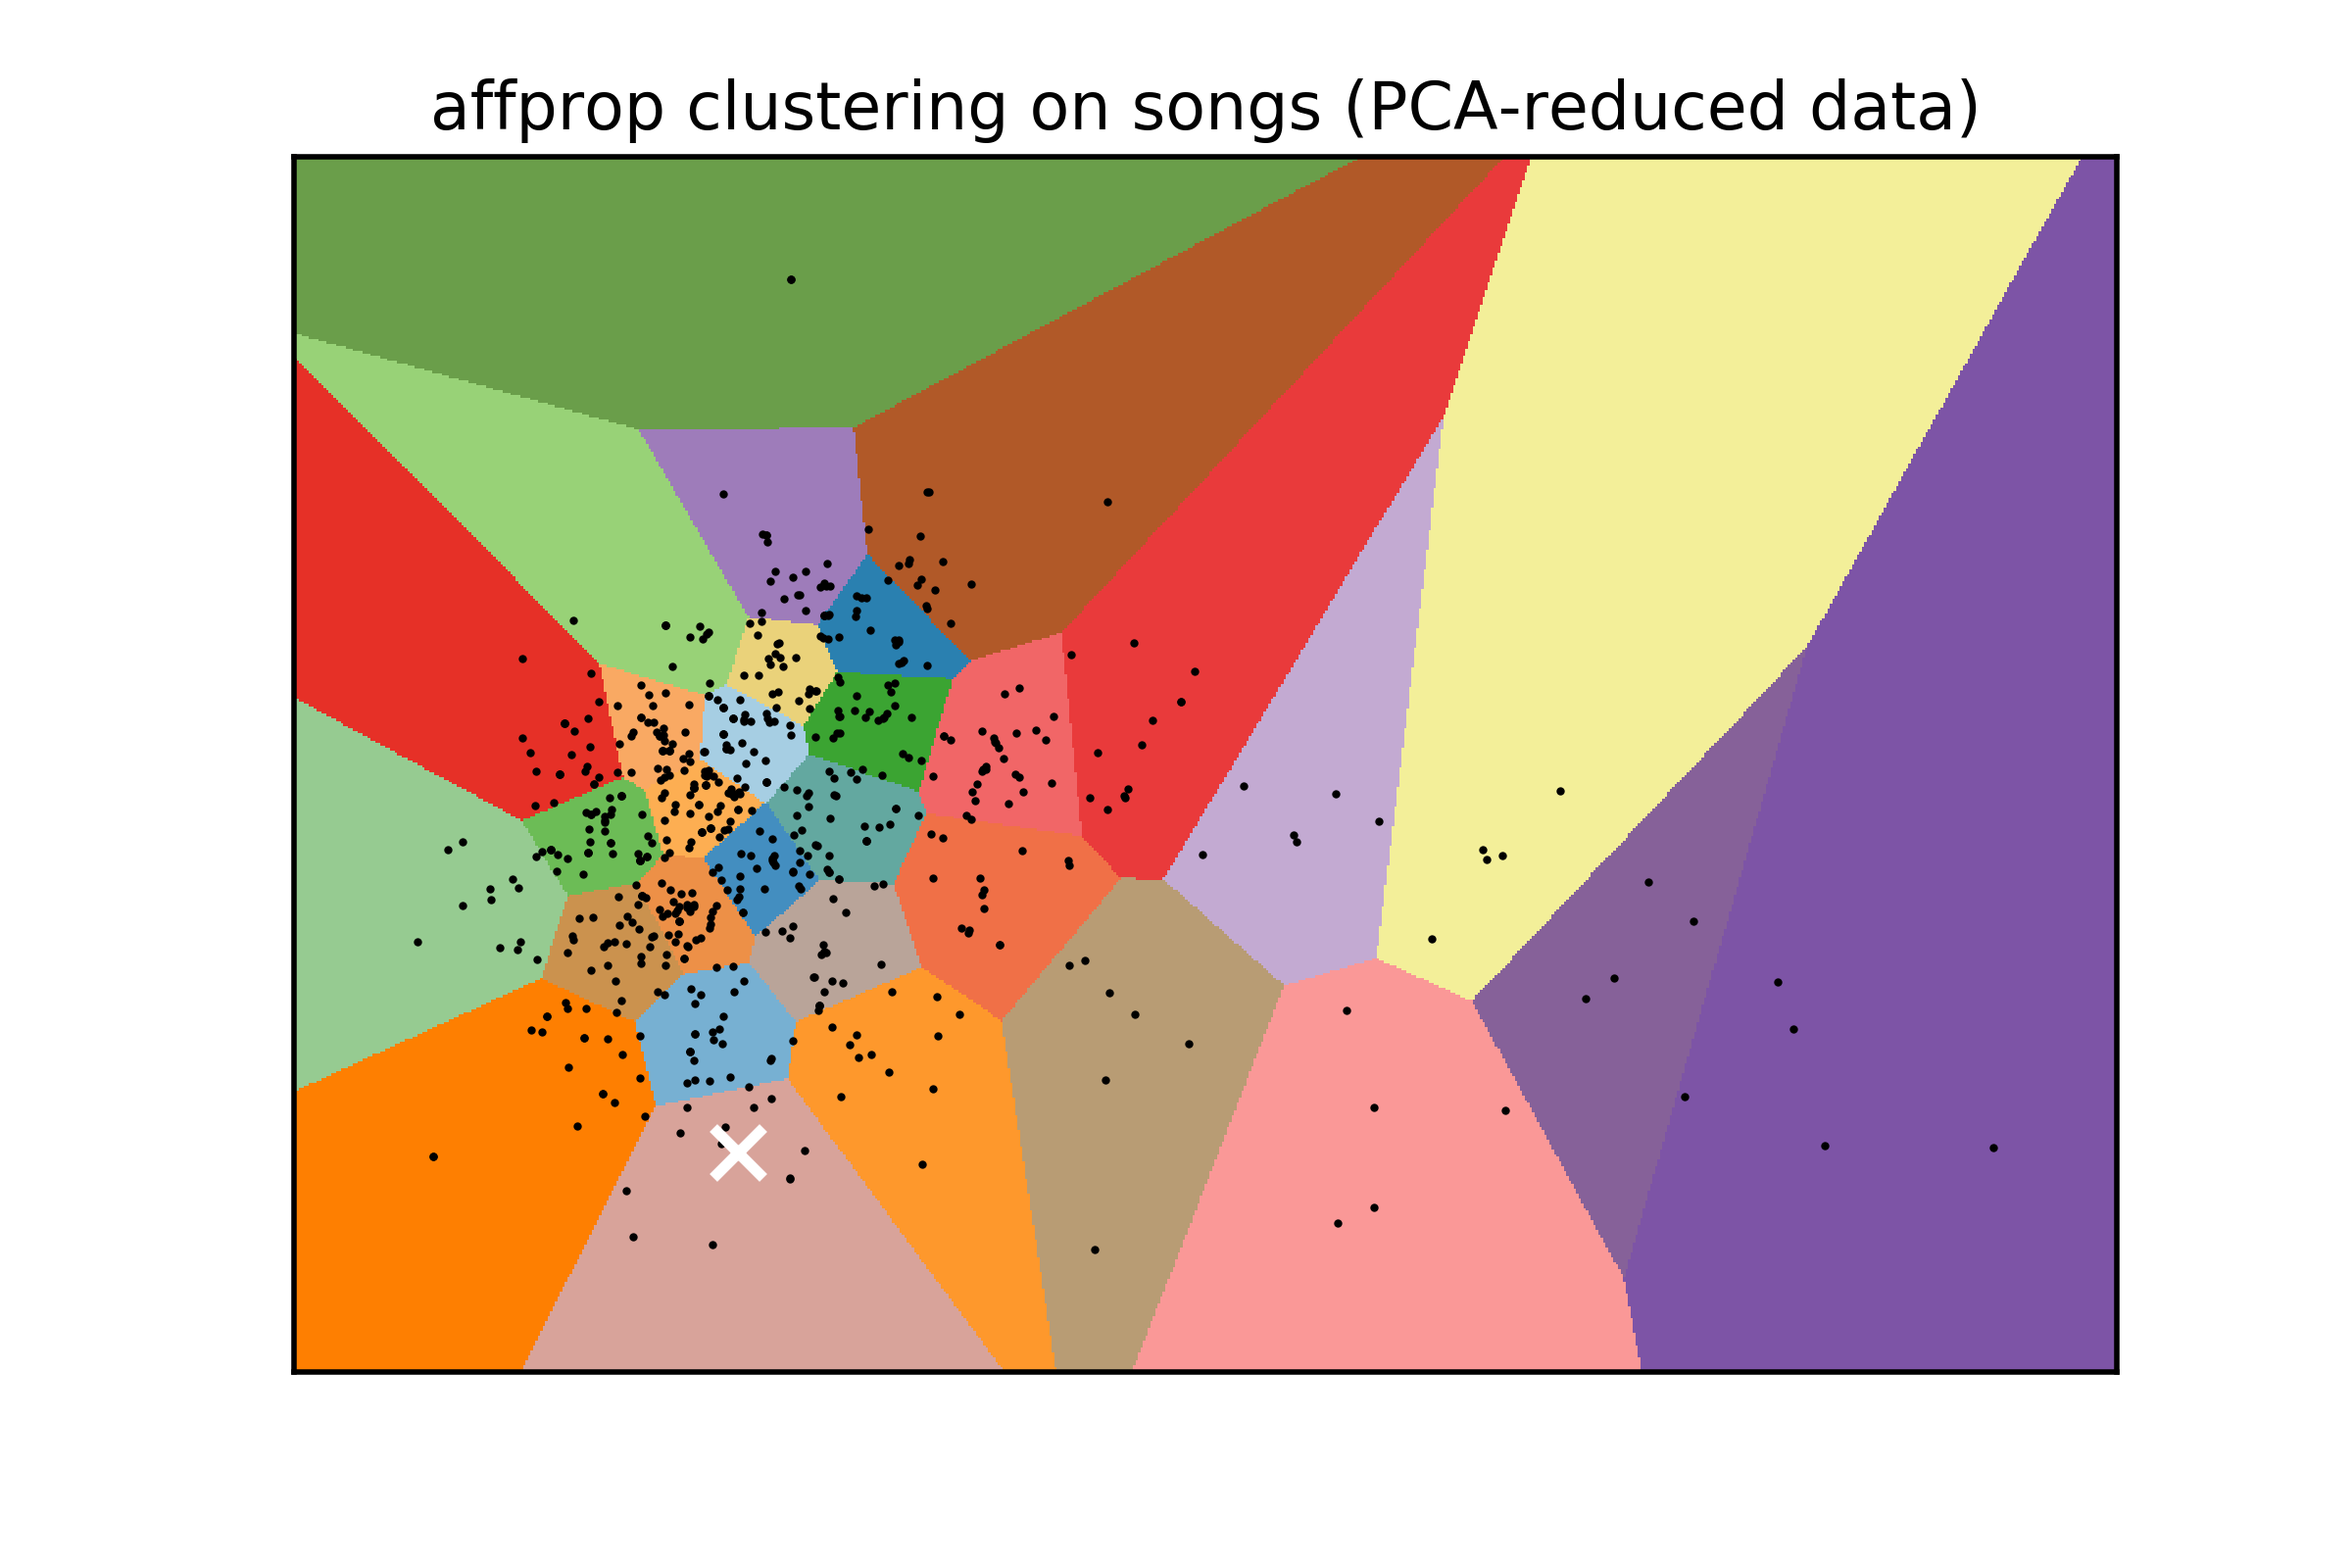
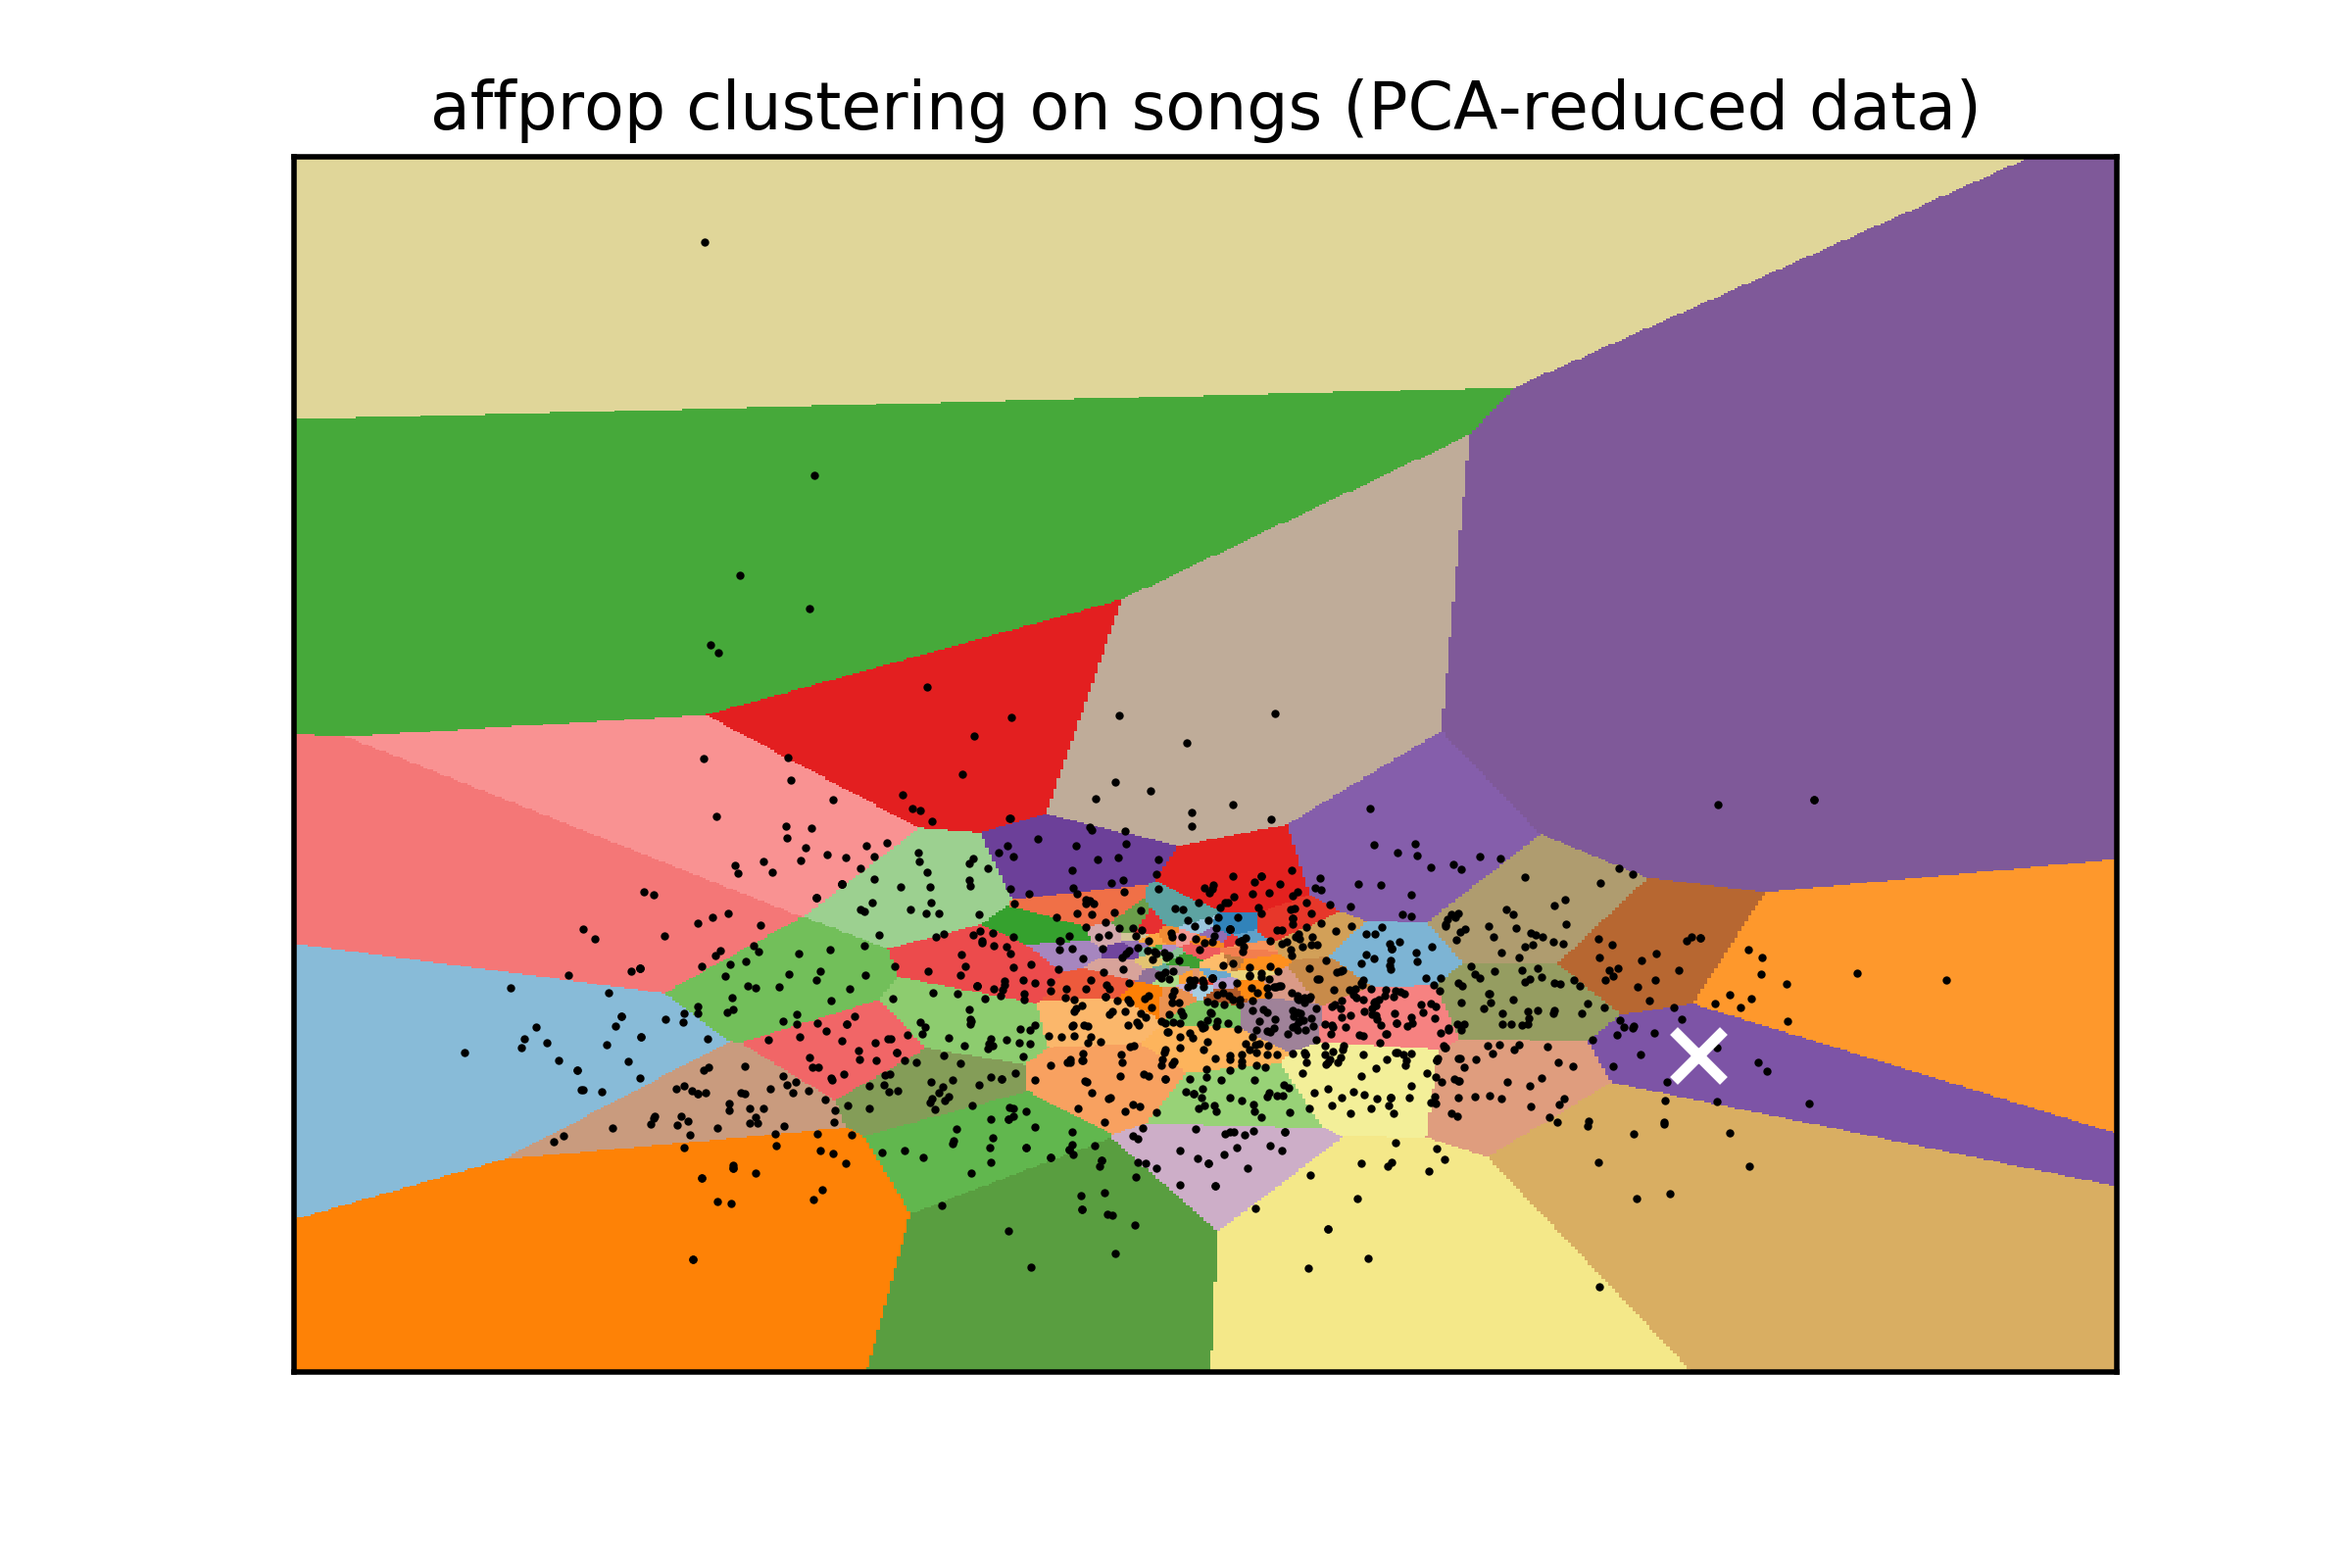
fixed bug with bad data

diff --git a/retriever.py b/retriever.py
@@ -37,7 +37,7 @@ class Retriever:
         result = self.sp.search(q=title, limit=1)['tracks']['items'][0]
         return title, result['uri'], result['artists'][0]['name'], result['artists'][0]['uri'], result['preview_url']
 
-    def get_similar_artists(self, artist_uri, sample_size=10):
+    def get_similar_artists(self, artist_uri, sample_size=20):
         # artist = self.sp.artist(artist_uri)
         # get all related artists to the one in question
         similar_artists = self.sp.artist_related_artists(artist_uri)
@@ -46,7 +46,7 @@ class Retriever:
             sa += [[artist['name'], artist['uri']]]
         return sa[:sample_size]
 
-    def get_artist_all_tracks(self, artist_uri, sample_size=10):
+    def get_artist_all_tracks(self, artist_uri, sample_size=20):
         # get all of the albums of each artist
         artist_albums = self.sp.artist_albums(artist_uri)
         # then get all the tracks in each of those albums
@@ -64,6 +64,15 @@ class Retriever:
         for i, track in enumerate(tracks):
             features += [self.sp.audio_features(track[1])]
         return features
+        
+    def prune_dataset(self, dataset):
+        for i, item in enumerate(dataset.data):
+            if any(x is None for x in item):
+                print(item)
+                del dataset.data[i]
+                del dataset.labels[i]
+        return dataset
+                    
 
     def build_dataset(self, data, labels):
         # build an array of the features we want to use for clustering
@@ -84,6 +93,11 @@ class Retriever:
                 for i, feature in enumerate(headers):
                     row += [feature_list[headers[i]]]
                 dataset['data'] += [row]
+                
+        # remove bad data
+        # print('pre prune', len(dataset.data))
+        dataset = self.prune_dataset(dataset)
+        # print('post prune', len(dataset.data))
         # make them nice np.arrays for printing
         dataset['data'] = np.array(dataset['data'])
         dataset['labels'] = np.array(dataset['labels'])
@@ -123,6 +137,7 @@ class Retriever:
             all_features += [self.sp.audio_features(feature_set)]
         return all_features, all_labels
 
+  
     def spotify_retrieve(self, track):
         # get the track data
         track_name, track_uri, artist_name, artist_uri, preview_url = self.find_track(track)
@@ -177,7 +192,7 @@ class Retriever:
         return tracks
 
 # testing stuff...
-# ret = Retriever()
-# dataset = ret.retrieve('Radioactive')
-# print(len(dataset.labels), dataset.labels)
-# print(len(dataset.data), dataset.data)
+#ret = Retriever()
+#dataset = ret.retrieve('Radioactive')
+#print(len(dataset.labels))#, dataset.labels)
+#print(len(dataset.data))#, dataset.data)

diff --git a/IO.py b/IO.py
@@ -44,7 +44,7 @@ spot_tracks = c.ret.spot_reccomendations(track_name)
 output_recommendations(source='Shift',
                        filename='shift_recommendations_'+track_name+'.txt',
                        tracks=shift_tracks)
-output_recommendations(source='Spotify',
-                       filename='spotify_recommendations_'+track_name+'.txt',
-                       tracks=spot_tracks)    
+#output_recommendations(source='Spotify',
+#                       filename='spotify_recommendations_'+track_name+'.txt',
+ #                      tracks=spot_tracks)    
     
